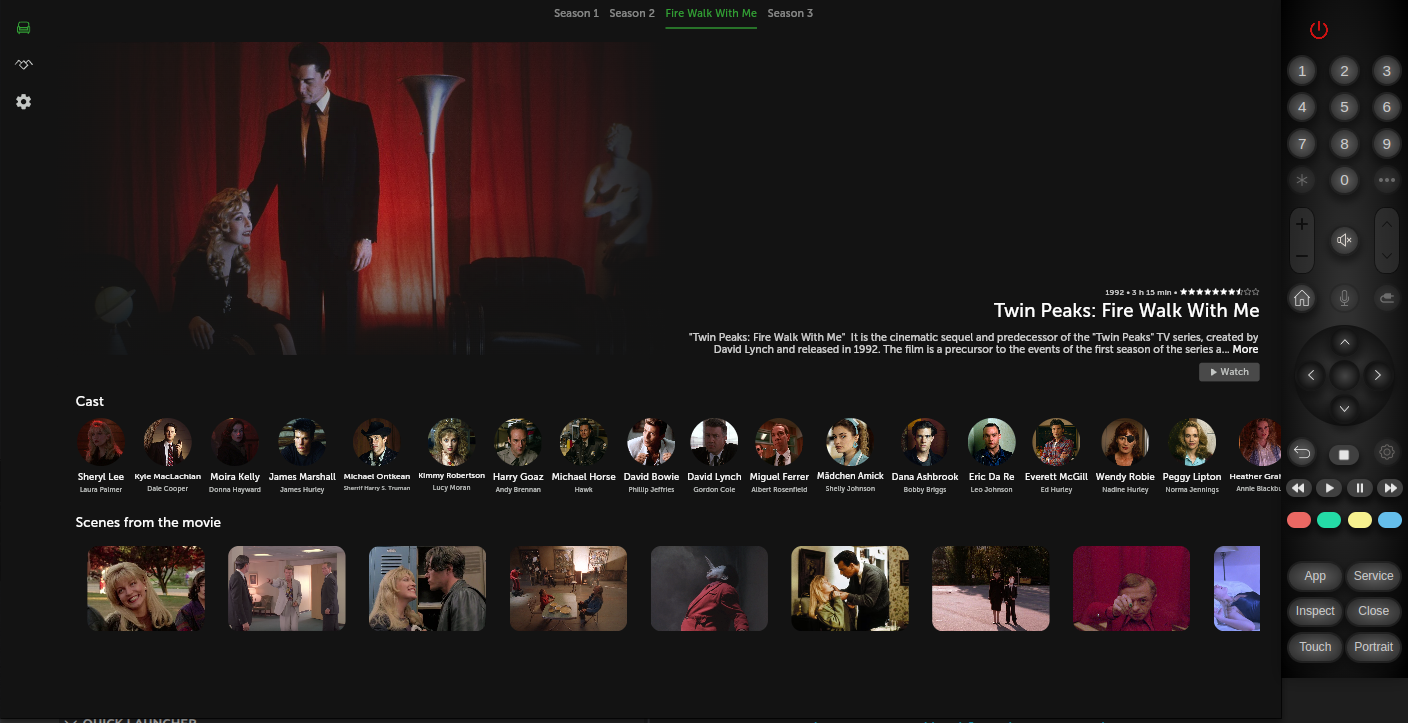
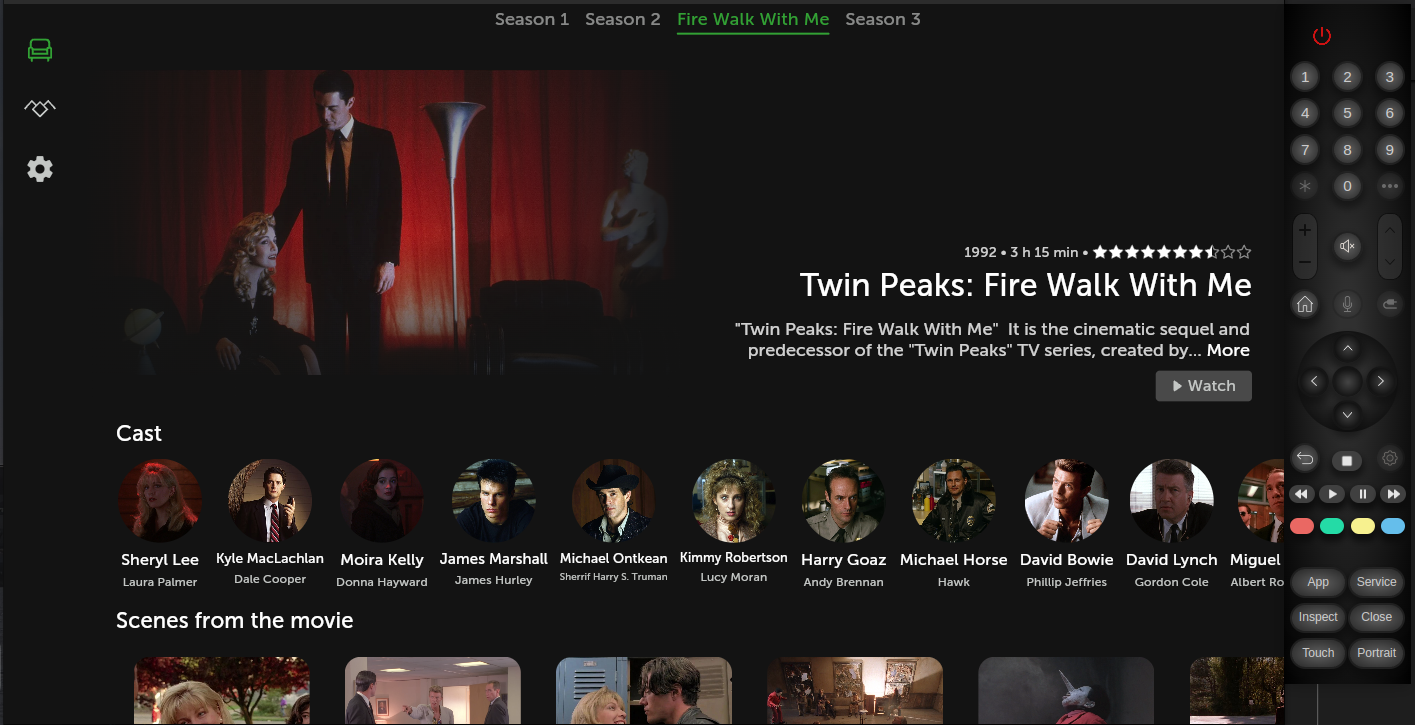
platform scaling & fixes

diff --git a/lib/feature/home/widget/webos_tab_bar.dart b/lib/feature/home/widget/webos_tab_bar.dart
@@ -6,10 +6,8 @@ import 'package:twin_peaks_tv/core/utils/ext/focus_node_ext.dart';
 import 'package:twin_peaks_tv/feature/home/home_screen.dart';
 import 'package:twin_peaks_tv/feature/home/home_tab.dart';
 
-const _colorDivider = Color(0x80D9D9D9);
-
-final class OneUiTabBar extends StatelessWidget {
-  const OneUiTabBar({
+final class WebOSTabBar extends StatelessWidget {
+  const WebOSTabBar({
     super.key,
     required this.tabController,
     required this.tabFocusScopeNode,
@@ -34,7 +32,7 @@ final class OneUiTabBar extends StatelessWidget {
           mainAxisSize: MainAxisSize.min,
           mainAxisAlignment: MainAxisAlignment.start,
           animationDuration: HomeScreen.tabAnimationDuration,
-          separatorBuilder: (_, _) => const _Separator(),
+          separatorBuilder: (_, _) => SizedBox(width: 16.s),
           indicatorBuilder: _buildIndicator,
           onDown: (_, _, _) {
             contentFocusNode.requestFocusOnChild();
@@ -42,7 +40,7 @@ final class OneUiTabBar extends StatelessWidget {
           },
           onLeft: (_, _, isOutOfScope) {
             if (isOutOfScope) {
-              OneUiTvNavigationDrawer.of(context).requestFocusOnMenu();
+              TvNavigationDrawer.of(context).requestFocusOnMenu();
             }
 
             return KeyEventResult.handled;
@@ -68,16 +66,13 @@ final class OneUiTabBar extends StatelessWidget {
   ) {
     final tabColors = context.appTheme.colors.tabBar;
 
-    return Padding(
-      padding: EdgeInsets.only(bottom: 8.s),
-      child: _TabIndicator(
-        tabBarHasFocus: tabBarHasFocus,
-        tabSize: tabSize,
-        color: WidgetStateProperty.fromMap({
-          WidgetState.focused: tabColors.selectedFocused,
-          WidgetState.selected: tabColors.selectedUnfocused,
-        }),
-      ),
+    return _TabIndicator(
+      tabBarHasFocus: tabBarHasFocus,
+      tabSize: tabSize,
+      color: WidgetStateProperty.fromMap({
+        WidgetState.focused: tabColors.selectedFocused,
+        WidgetState.selected: tabColors.selectedUnfocused,
+      }),
     );
   }
 }
@@ -149,24 +144,6 @@ final class _TabIndicator extends StatelessWidget {
             ? color.resolve({WidgetState.focused})
             : color.resolve({WidgetState.selected}),
         borderRadius: _radius,
-      ),
-    );
-  }
-}
-
-final class _Separator extends StatelessWidget {
-  const _Separator();
-
-  @override
-  Widget build(BuildContext context) {
-    return Padding(
-      padding: EdgeInsets.symmetric(horizontal: 16.s),
-      child: DecoratedBox(
-        decoration: BoxDecoration(
-          color: _colorDivider,
-          borderRadius: BorderRadius.all(Radius.circular(12.r)),
-        ),
-        child: SizedBox(width: 1.5.s, height: 16.s),
       ),
     );
   }

diff --git a/lib/feature/movie/widget/scenes/scene_list.dart b/lib/feature/movie/widget/scenes/scene_list.dart
@@ -16,10 +16,13 @@ final class SceneList extends StatelessWidget {
       crossAxisAlignment: CrossAxisAlignment.start,
       spacing: 8.s,
       children: [
-        Text(
-          context.ln.movie_scenes_from_movie,
-          style: context.appTheme.typography.movieInfo.label.copyWith(
-            color: context.appTheme.colors.text.primary,
+        Padding(
+          padding: EdgeInsets.symmetric(horizontal: 32.s),
+          child: Text(
+            context.ln.movie_scenes_from_movie,
+            style: context.appTheme.typography.movieInfo.label.copyWith(
+              color: context.appTheme.colors.text.primary,
+            ),
           ),
         ),
 
@@ -28,6 +31,7 @@ final class SceneList extends StatelessWidget {
           child: TvListView.separated(
             itemCount: scenes.length,
             scrollDirection: Axis.horizontal,
+            padding: EdgeInsets.symmetric(horizontal: 32.s),
             focusScopeNode: context.movieBloc.scenesScopeNode,
             onUp: (_, _, isOutOfScope) {
               if (isOutOfScope) {

diff --git a/lib/core/presentation/foundation/media/media_screen_content.dart b/lib/core/presentation/foundation/media/media_screen_content.dart
@@ -87,12 +87,9 @@ final class MediaScreenContent extends StatelessWidget {
                     },
                   ),
 
-                  SliverToBoxAdapter(child: SizedBox(height: 24.s)),
+                  SliverToBoxAdapter(child: SizedBox(height: 12.s)),
 
-                  SliverPadding(
-                    padding: EdgeInsets.symmetric(horizontal: 32.s),
-                    sliver: sliverContent,
-                  ),
+                  sliverContent,
 
                   SliverToBoxAdapter(child: SizedBox(height: 32.s)),
                 ],
@@ -163,7 +160,7 @@ final class _FullScreenInfo extends StatelessWidget {
                   mainAxisSize: MainAxisSize.min,
                   crossAxisAlignment: CrossAxisAlignment.start,
                   children: [
-                    SizedBox(height: 120.s),
+                    SizedBox(height: 164.s),
                     properties,
                     title,
                     SizedBox(height: 8.s),

diff --git a/lib/feature/splash/splash_screen.dart b/lib/feature/splash/splash_screen.dart
@@ -86,7 +86,7 @@ final class _SplashScreenText extends AnimatedWidget {
           StrokeText(
             text: context.ln.splash_header,
             strokeColor: theme.colors.primary.primary,
-            strokeWidth: 3.fz,
+            strokeWidth: 3,
             textAlign: TextAlign.center,
             textStyle: theme.typography.splash.splashHeader.copyWith(
               color: theme.colors.splash.text,
@@ -96,7 +96,7 @@ final class _SplashScreenText extends AnimatedWidget {
           StrokeText(
             text: context.ln.splash_subtext,
             strokeColor: theme.colors.primary.primary,
-            strokeWidth: 2.fz,
+            strokeWidth: 2,
             textAlign: TextAlign.center,
             textStyle: theme.typography.splash.splashSubText.copyWith(
               color: theme.colors.splash.text,

diff --git a/lib/feature/home/home_screen.dart b/lib/feature/home/home_screen.dart
@@ -10,6 +10,7 @@ import 'package:twin_peaks_tv/core/utils/platform.dart';
 import 'package:twin_peaks_tv/core/utils/utils.dart';
 import 'package:twin_peaks_tv/feature/home/bloc/bloc.dart';
 import 'package:twin_peaks_tv/feature/home/home_tab.dart';
+import 'package:twin_peaks_tv/feature/home/widget/webos_tab_bar.dart';
 import 'package:twin_peaks_tv/feature/home/widget/widget.dart';
 
 @RoutePage()
@@ -118,7 +119,7 @@ final class HomeScreenState extends State<HomeScreen> {
 
                   AppPlatforms.tvos => throw UnimplementedError(),
 
-                  AppPlatforms.webos => MaterialTabBar(
+                  AppPlatforms.webos => WebOSTabBar(
                     tabController: tabController,
                     tabFocusScopeNode: tabFocusScopeNode,
                     contentFocusNode: contentFocusScopeNode,

diff --git a/lib/feature/season/widget/episodes/episode_list.dart b/lib/feature/season/widget/episodes/episode_list.dart
@@ -20,10 +20,14 @@ final class EpisodeList extends StatelessWidget {
 
         return KeyEventResult.handled;
       },
-      sliver: SliverList.separated(
-        itemCount: episodes.length,
-        separatorBuilder: (context, index) => SizedBox(height: 8.s),
-        itemBuilder: (context, index) => EpisodeItem(episode: episodes[index]),
+      sliver: SliverPadding(
+        padding: EdgeInsets.symmetric(horizontal: 32.s),
+        sliver: SliverList.separated(
+          itemCount: episodes.length,
+          separatorBuilder: (context, index) => SizedBox(height: 8.s),
+          itemBuilder: (context, index) =>
+              EpisodeItem(episode: episodes[index]),
+        ),
       ),
     );
   }

diff --git a/lib/core/presentation/foundation/media/cast.dart b/lib/core/presentation/foundation/media/cast.dart
@@ -119,7 +119,7 @@ final class _CastState extends State<Cast> {
           ),
 
           SizedBox(
-            height: 124.s,
+            height: 136.s,
             child: TvListView.separated(
               scrollDirection: Axis.horizontal,
               itemCount: widget.actors.length,
